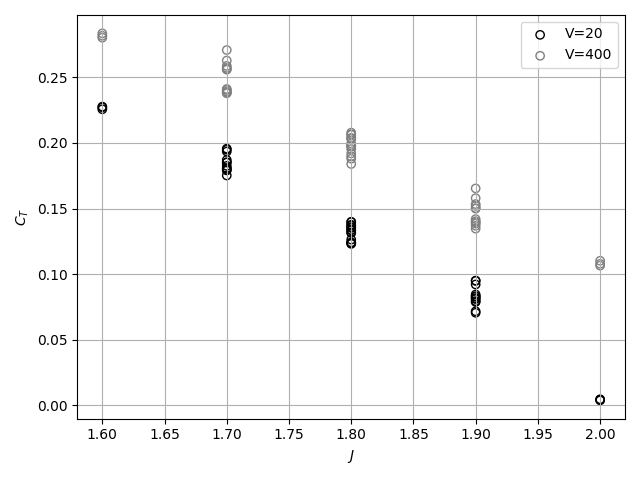
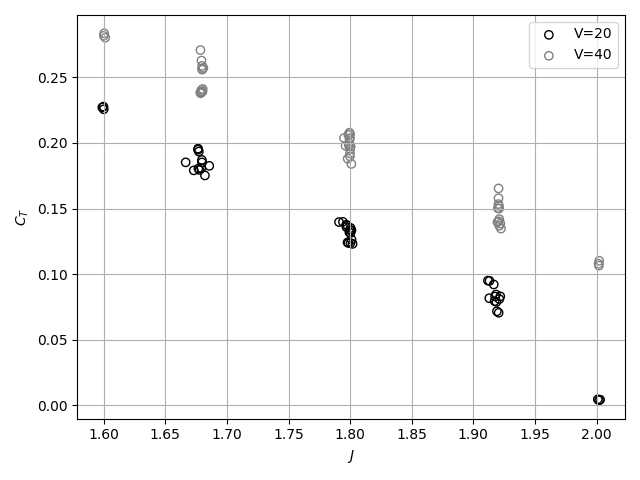
cahnges

diff --git a/derivatives.py b/derivatives.py
@@ -9,11 +9,12 @@ import matplotlib.pyplot as plt
 #Load the fucktwat data
 data = pd.read_csv("datapoints.csv")
 V = np.array(data["V"])
-dr = np.array(data["dr"],dtype=np.float64)
+dr = -1*np.array(data["dr"],dtype=np.float64)
 Ct = np.array(data["CT"])
 J = np.array(data["J"])
 al = np.array(data["a"])
 bt = np.array(data["b"])
+data["Cn"] = -data["Cn"]
 
 def derivatives_20_Cn():
     filt = (V == 20) & (bt<8) & (Ct > 0.02)
@@ -100,7 +101,7 @@ def show_nonlinearity_tobeta():
     plt.legend()
     plt.grid()
     plt.xlabel(r"$\beta$")
-    plt.ylabel("$C_P$")
+    plt.ylabel("$C_L$")
     plt.tight_layout()
     plt.savefig("Images/nonlinCpbeta")
 
@@ -133,7 +134,7 @@ def show_nonlinearity_toCt():
     plt.legend()
     plt.grid()
     plt.xlabel("$C_T$")
-    plt.ylabel("$C_P$")
+    plt.ylabel("$C_L$")
     plt.tight_layout()
     plt.savefig("Images/nonlinCpCt")
 
@@ -166,7 +167,7 @@ def show_nonlinearity_toal():
     plt.legend()
     plt.grid()
     plt.xlabel(r"$\alpha$")
-    plt.ylabel("$C_P$")
+    plt.ylabel("$C_L$")
     plt.tight_layout()
     plt.savefig("Images/nonlinCpal")
 
@@ -176,7 +177,7 @@ def show_CT_J():
     filt40 = (V == 40)
     plt.clf()
     plt.scatter(J[filt20],Ct[filt20],marker="o",edgecolors="k",label=r"V=20",facecolors='none')
-    plt.scatter(J[filt40],Ct[filt40],marker="o",edgecolors="gray",label=r"V=400",facecolors='none')
+    plt.scatter(J[filt40],Ct[filt40],marker="o",edgecolors="gray",label=r"V=40",facecolors='none')
     plt.legend()
     plt.grid()
     plt.xlabel("$J$")
@@ -187,9 +188,30 @@ def show_CT_J():
 def plot_fit_Cn():
     alpha = [2,5]
     drs = [0,5,10]
+    C = 0.15
     betas = np.linspace(0,10)
+    plt.clf()
     for a, d in itertools.product(alpha,drs):
-        pass
+        aa = np.full_like(betas,np.radians(a))
+        dd = np.full_like(betas,np.radians(a))
+        cc = np.full_like(betas,C)
+        m = np.array([aa,np.radians(betas),dd,cc])
+        plt.plot(betas, Cn2.predict(m.T), "--k")
+        plt.plot(betas, Cn4.predict(m.T), "--", c="gray")
+
+    filt20 = (V == 20)
+    filt40 = (V == 40)
+    filta2 = (al == 2)
+    filta5 = (al == 5)
+
+    #Show for Cn
+    plt.scatter(bt[filt20&filta2],data["Cn"][filt20&filta2],marker="o",edgecolors="k",label=r"V=20, $\alpha=2$",facecolors='none')
+    plt.scatter(bt[filt20&filta5],data["Cn"][filt20&filta5],marker="s",edgecolors="k",label=r"V=20, $\alpha=5$",facecolors='none')
+
+    plt.scatter(bt[filt40&filta2],data["Cn"][filt40&filta2],marker="v",edgecolors="gray",label=r"V=40, $\alpha=2$",facecolors='none')
+    plt.scatter(bt[filt40&filta5],data["Cn"][filt40&filta5],marker="^",edgecolors="gray",label=r"V=40, $\alpha=5$",facecolors='none')
+
+    plt.show()
 
 def make_tables(C2, C4):
     de = [r"\alpha",r"\beta",r"\delta_r",r"C_T"]
@@ -213,6 +235,8 @@ show_CT_J()
 
 make_tables(Cn2,Cn4)
 make_tables(Cp2,Cp4)
+
+# plot_fit_Cn()
 
 
 exit()

diff --git a/getCnbeta.m b/getCnbeta.m
@@ -16,7 +16,7 @@ function Cnbeta = getCnbeta(BAL)
         for j=1:15
             data.Cn(k,1) = BAL.windOn.(polars{i}).CMy(j)';
             data.Cp(k,1) = BAL.windOn.(polars{i}).CMr(j)';
-            data.J(k,1) = round(BAL.windOn.(polars{i}).J_M1(j)*10)/10;
+            data.J(k,1) = (BAL.windOn.(polars{i}).J_M1(j)*10)/10;
             data.a(k,1) = round(BAL.windOn.(polars{i}).AoA(j));
             data.b(k,1) = round(BAL.windOn.(polars{i}).AoS(j));
             data.V(k,1) = round(BAL.windOn.(polars{i}).V(j)/10)*10;
